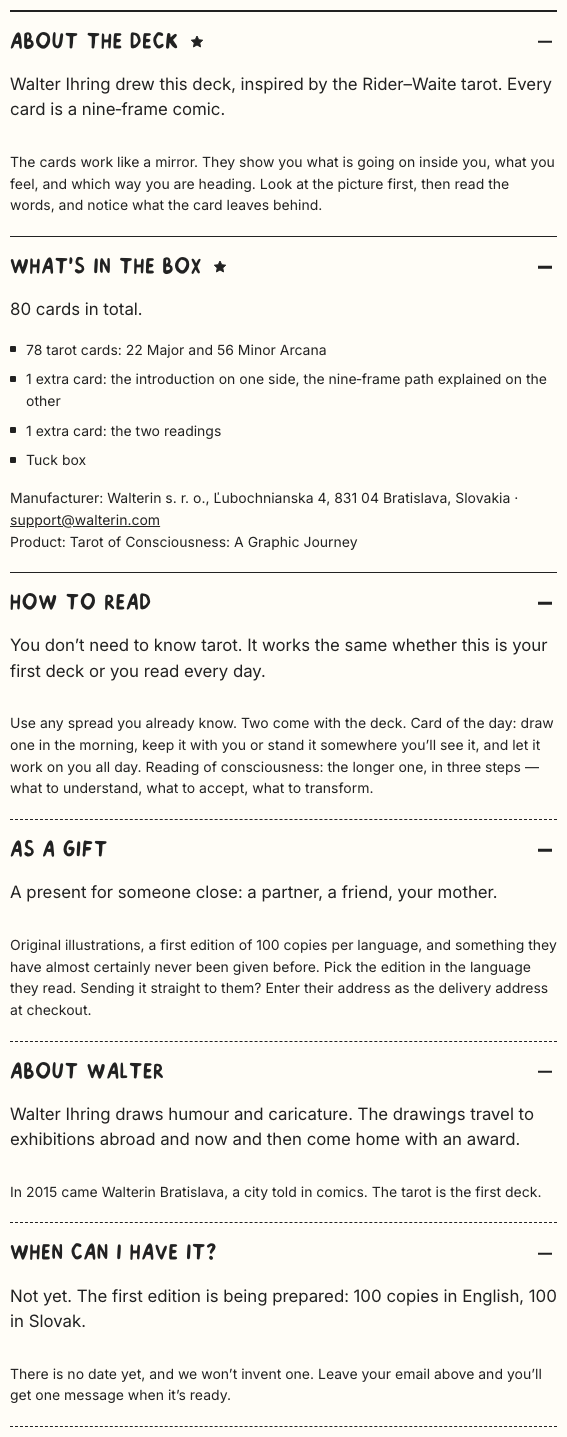
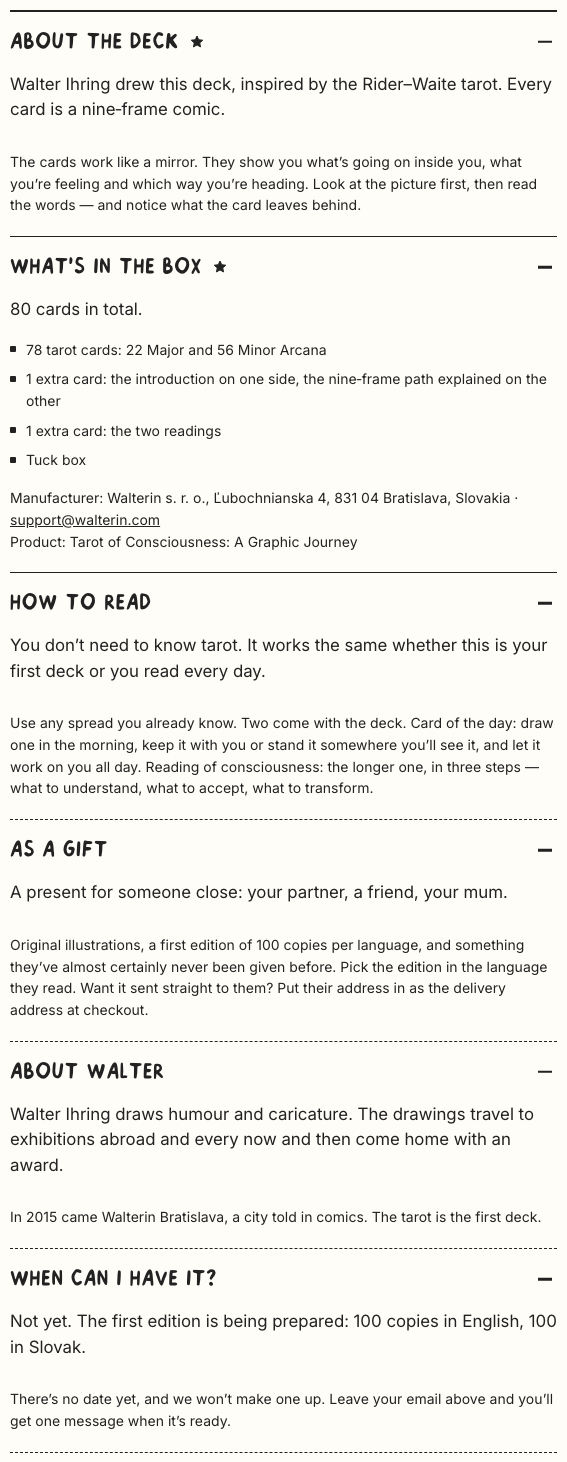
specs: 270 g/m² and matte confirmed; unverified size and CMYK rows removed; warmer copy register
- "Meet the cards": Cards 80 · in the box | Structure | Material 270 g/m² | Finish Matte.
  "84 × 138 mm", "Full-colour CMYK" and "Premium cardstock" traced back only to the outdated admin
  metafield, so they are off the site until the printer confirms
- copy: "your mum", contractions and a familiar register through all six accordions (SK written
  first, EN following it), recorded EN + SK in the product file
- ground truth: 270 g/m² and matte listed as confirmed, the rest still TBD and never guessed

diff --git a/docs/products/TAROT-OF-CONSCIOUSNESS.md b/docs/products/TAROT-OF-CONSCIOUSNESS.md
@@ -26,7 +26,9 @@
 - "Guide cards" is retired. 80 = the box, 78 = the tarot (SEO keeps 78).
 - Tuck box (Walterin logo top, Magician on the front, red back panel).
 - Illustrated by Walter Ihring. Inspired by Rider–Waite.
-- Specs (size, paper, finish, corners, box material): **TBD from Walter / printer. Never guess.**
+- Specs: **card stock 270 g/m², finish matte** (confirmed 23 Sep 2026). Size, print, corners and box
+  material stay TBD from Walter or the printer. The old "84 × 138 mm / Full-colour CMYK / Premium
+  cardstock" came from the outdated metafield and is off the site.
 
 ## 3. Variants (Shopify)
 
@@ -67,7 +69,7 @@ Preview set (the only cards shown): The Magician, The Fool, The Hermit, Wheel of
 
 Short description (2–3 sentences): TBD, drafted in the house voice, approved by Veronka.
 
-### Buy-column accordions: final copy (approved 23 Sep 2026)
+### Buy-column accordions: final copy (approved 23 Sep 2026, warmer register applied)
 
 Order: About the deck · What's in the box (both main: solid rule + ink star) · How to read · As a
 gift · About Walter · When can I have it? (secondary: dashed rule, no star; the last one only before
@@ -76,7 +78,7 @@ Written to `docs/design/COPY-GUIDE.md`: spoken register, concrete, nothing repea
 
 **1. About the deck / O balíčku**
 EN: Walter Ihring drew this deck, inspired by the Rider–Waite tarot. Every card is a nine‑frame comic.
-· The cards work like a mirror. They show you what is going on inside you, what you feel, and which way you are heading. Look at the picture first, then read the words, and notice what the card leaves behind.
+· The cards work like a mirror. They show you what's going on inside you, what you're feeling and which way you're heading. Look at the picture first, then read the words — and notice what the card leaves behind.
 SK: Tento balíček nakreslil Walter Ihring, inšpiroval sa tarotom Rider–Waite. Každá karta je deväťobrázkový komiks.
 · Karty fungujú ako zrkadlo. Ukážu vám, čo sa vo vás deje, čo cítite a kam smerujete. Najprv sa pozrite na obrázok, potom si prečítajte text — a všimnite si, čo vo vás karta nechá.
 
@@ -100,14 +102,14 @@ SK: Tarot poznať nemusíte. Funguje rovnako, či je to váš prvý balíček, a
 · Použite ktorýkoľvek výklad, ktorý poznáte. Dva sú priamo v balíčku. Karta dňa: ráno si jednu vytiahnite, noste ju pri sebe alebo si ju postavte tam, kde na ňu uvidíte, a nechajte ju cez deň pôsobiť. Čítanie vedomia: dlhší výklad v troch krokoch — čo pochopiť, čo prijať, čo premeniť.
 
 **4. As a gift / Ako darček**
-EN: A present for someone close: a partner, a friend, your mother.
-· Original illustrations, a first edition of 100 copies per language, and something they have almost certainly never been given before. Pick the edition in the language they read. Sending it straight to them? Enter their address as the delivery address at checkout.
-SK: Darček pre niekoho blízkeho: pre partnera, kamarátku, mamu.
-· Pôvodné ilustrácie, prvé vydanie, 100 kusov v každom jazyku — a niečo, čo ešte takmer určite nedostal. Vyberte vydanie v jazyku, v ktorom obdarovaný číta. Chcete ho poslať priamo jemu? V pokladni zadajte jeho adresu ako adresu doručenia.
+EN: A present for someone close: your partner, a friend, your mum.
+· Original illustrations, a first edition of 100 copies per language, and something they've almost certainly never been given before. Pick the edition in the language they read. Want it sent straight to them? Put their address in as the delivery address at checkout.
+SK: Darček pre niekoho blízkeho: pre partnera, pre kamarátku, pre mamu.
+· Pôvodné ilustrácie, prvé vydanie, 100 kusov v každom jazyku — a niečo, čo ešte takmer určite nedostal. Vyberte vydanie v jazyku, v ktorom číta. Chcete mu balíček poslať rovno? V pokladni zadajte jeho adresu ako adresu doručenia.
 ⏸ Held back until it exists (see LAUNCH-READINESS): EN "Gift wrapping and a short message can be added at checkout." · SK "V pokladni sa dá pridať darčekové balenie a krátky odkaz."
 
 **5. About Walter / O Walterovi**
-EN: Walter Ihring draws humour and caricature. The drawings travel to exhibitions abroad and now and then come home with an award.
+EN: Walter Ihring draws humour and caricature. The drawings travel to exhibitions abroad and every now and then come home with an award.
 · In 2015 came Walterin Bratislava, a city told in comics. The tarot is the first deck.
 SK: Walter Ihring kreslí humor a karikatúru. Kresby cestujú na výstavy do zahraničia a občas sa vrátia s cenou.
 · V roku 2015 vyšiel Walterin Bratislava, mesto rozprávané komiksom. Tarot je prvý balíček kariet.
@@ -115,7 +117,7 @@ SK: Walter Ihring kreslí humor a karikatúru. Kresby cestujú na výstavy do za
 
 **6. When can I have it? / Kedy ho dostanem?** — before launch only
 EN: Not yet. The first edition is being prepared: 100 copies in English, 100 in Slovak.
-· There is no date yet, and we won't invent one. Leave your email above and you'll get one message when it's ready.
+· There's no date yet, and we won't make one up. Leave your email above and you'll get one message when it's ready.
 SK: Zatiaľ nie. Pripravujeme prvé vydanie: 100 kusov v angličtine a 100 v slovenčine.
 · Dátum ešte nemáme a vymýšľať si ho nebudeme. Nechajte nám e-mail vyššie a keď bude hotový, pošleme vám jednu správu.
 

diff --git a/docs/WALTERIN-GROUND-TRUTH.md b/docs/WALTERIN-GROUND-TRUTH.md
@@ -62,7 +62,10 @@
 - **Never show the full deck.** Only the 12-card preview set: The Magician, The Fool, The Hermit, Wheel of Fortune, The Star, The Sun, Two of Wands, Knight of Wands, Six of Cups, Seven of Swords, Two of Pentacles, Seven of Pentacles.
 - **Naming:** EN only "nine-frame comic" or "nine-frame path"; SK "deväťobrázkový komiks" and "cesta v deviatich krokoch". Never "9-layer system", "9-frame system" or "nine-frame system".
 - **Reading systems:** "Card of the day" and "Reading of consciousness" (what to understand / accept / transform). The nine-frame path is the guide inside every card.
-- Specs (size, paper, finish, corners, box): TBD, from Walter or the printer. Never guess.
+- Specs. **Confirmed (Veronka, 23 Sep 2026): card stock 270 g/m², finish matte.**
+  Still TBD from Walter or the printer, and never guessed: size, print process, corners, box material.
+  ⚠ "84 × 138 mm", "Full-colour CMYK" and "Premium cardstock" came from the outdated admin metafield
+  and were removed from the site on 23 Sep 2026. Don't put them back without the printer.
 - Reviews: hidden until real, verified reviews exist. Judge.me uninstalled; review tool TBD.
 - Product description and metafields in admin are outdated (still say "hand-signed", "9-layer"). To be rewritten.
 
